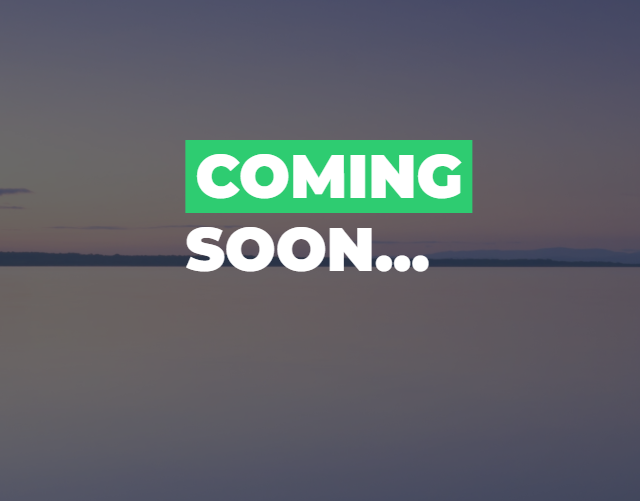
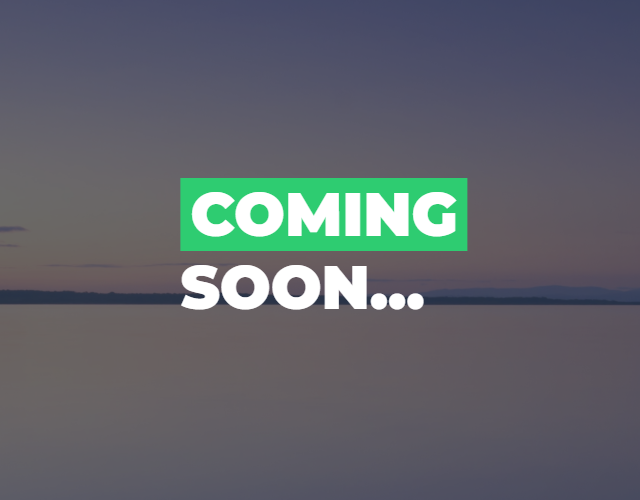
coming soon

Changed region(s): [[0.0, 0.27, 1.0, 0.63], [0.0, 0.36, 0.0312, 0.39]]

diff --git a/public/index.html b/public/index.html
@@ -132,7 +132,7 @@
             <!-- gallery item 2 -->
             <div class="col-md-6 col-lg-4 items web" style="position: absolute; left: 360px; top: 0px;">
               <div class="item-img">
-                <img src="/assets/project2.jpg" alt="image">
+                <img src="/assets/coming.PNG" alt="image">
                 <div class="item-img-overlay text-center valign">
                   <div class="overlay-info vertical-center full-width">
                     <h6 lang-key="PORTFOLIO_PROJECT1_NAME"></h6>
